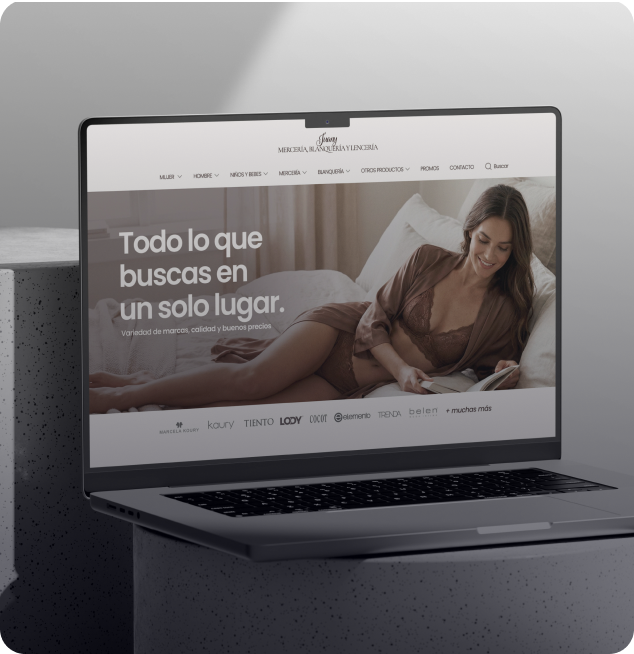
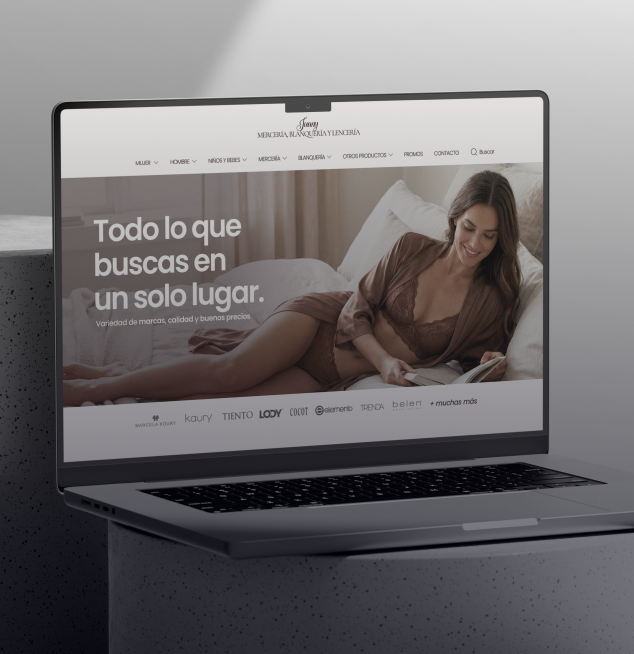
mejoras 11/3

diff --git a/App.jsx b/App.jsx
@@ -34,49 +34,26 @@ function App() {
           path="/"
           element={
             <main className="flex flex-col gap-30">
-              <header className="relative ">
-                 <CoverImage portada={portada} />
-             { /*   <div className="absolute inset-0 flex flex-col justify-center items-start z-0 pointer-events-none md: p-20">
+              <header className="relative w-full h-[60vh] md:h-[100vh]">
+              {/*  <CoverImage portada={portada} />*/} 
+                <div className=" absolute inset-0 flex flex-col justify-center items-start z-0 pointer-events-none md: p-20">
                  <span className="font-serif font-regular text-white/80 text-3xl">
-                   <i>Hola! soy Luciana,</i> 
+                   Soy Luciana,
+                  </span>          
+                  <span className="font-sans text-white/90 font-semibold text-7xl">
+                    una <i>diseñadora multimedial</i>
                   </span>
                   <span className="font-sans text-white/90  font-semibold text-7xl">
-                    product designer <i>&</i>
+                   enfocada en el desarrollo de <i>productos digitales</i> que existen para algo más que verse bien
                   </span>
-                  <span className="font-sans text-white/90 font-semibold text-7xl">
-                    diseñadora multimedial
-                  </span>
+                 
                   
-                </div>*/}
+                </div>
                 <ShaderGradientComponent />
               </header>
 
               <ParrallaxSection>
-                <section className="w-full">
-                  <TwoColumnSection
-                    titulo={
-                      <>
-                        Sobre <i>mí</i>
-                      </>
-                    }
-                  >
-                    <Paragraph>
-                      Creo interfaces, experiencias y productos digitales que existen para algo más que verse bien.
-                    </Paragraph>
-
-                    <Scroll>
-                      <StarIcon className="w-8 md:w-12" />
-                    </Scroll>
-
-                    <Paragraph variant="quote">
-                      {" "}
-                      “Aunque mi fuerte es la <i>comunicación visual</i>, mi{" "}
-                      <i>curiosidad</i> por la <i>programación</i> me permite
-                      experimentar con la interactividad y transformar diseños
-                      estáticos en experiencias dinámicas.”
-                    </Paragraph>
-                  </TwoColumnSection>
-                </section>
+               
                 <section id="proyectos">
                   <ContainerImages
                     titulo={
@@ -88,7 +65,8 @@ function App() {
                     <Scroll>
                       <CardProjects
                         imagen={fotoProyecto1}
-                        descripcion="Catálogo web diseñado y desarrollado para un comercio de mercería, blanquería y lencería."
+                        descripcion="Catálogo Web"
+                        año="2025"
                         etiqueta1="DISEÑO WEB"
                         etiqueta2="DESARROLLO FRONTEND"
                         link="/catalogo-web"
@@ -97,7 +75,8 @@ function App() {
                     <Scroll>
                       <CardProjects
                         imagen={fotoProyecto2}
-                        descripcion="Proyecto personal de serie de pósters inspirado en la Fórmula 1."
+                        descripcion="Posters Fórmula 1"
+                        año="2025"
                         etiqueta1="DISEÑO GRÁFICO"
                         link={
                           "https://www.behance.net/gallery/231453491/FORMULA-1-POSTERS-DESIGNS"
@@ -107,7 +86,8 @@ function App() {
                     <Scroll>
                       <CardProjects
                         imagen={fotoProyecto3}
-                        descripcion="Rediseño del menú gastronómico y diseño de flyers para un local de comida rápida."
+                        descripcion="Rediseño Menú Gastronómico"
+                        año="2024"
                         etiqueta1="DISEÑO GRÁFICO"
                         link={
                           "https://www.behance.net/gallery/231033797/Restaurant-Menu-Flyer-Design"
@@ -117,14 +97,27 @@ function App() {
                     <Scroll>
                       <CardProjects
                         imagen={fotoProyecto4}
-                        descripcion="Widget de escritorio que muestra información sobre las próximas carreras de Fórmula 1, incluyendo telemetría en tiempo real."
+                        descripcion="Calendario Fórmula 1"
+                        año="2026"
                         etiqueta1="DISEÑO UX/UI"
                         etiqueta2="DESARROLLO FRONTEND"
                       />
                     </Scroll>
                   </ContainerImages>
                 </section>
-              </ParrallaxSection>
+
+                <div className="flex flex-col justify-center items-center text-center w-full mt-20 pt-50 border-t border-gray-800 ">
+                  <StarIcon className="w-5 md:w-8" />
+                  <Paragraph variant="quote">
+                   ❝ Aunque mi fuerte es el <i>diseño visual</i>, mi
+                      curiosidad por la <i>programación</i> me permite
+                      experimentar con la interactividad y transformar diseños
+                      estáticos en experiencias dinámicas.❞</Paragraph>
+                       <StarIcon className="w-5 md:w-8" />
+                </div>
+             
+
+                 </ParrallaxSection>
             </main>
           }
         />

diff --git a/components/MiHeader.jsx b/components/MiHeader.jsx
@@ -1,0 +1,63 @@
+import React, { useState, useEffect } from 'react';
+import { ShaderGradientComponent } from "../components/ShaderGradientComponent";
+
+export default function MiHeader() {
+  const [isScrolled, setIsScrolled] = useState(false);
+
+  useEffect(() => {
+    const handleScroll = () => {
+      // Usamos window.innerHeight para que el cambio ocurra 
+      // cuando el usuario haya scrolleado la mitad de su pantalla
+      if (window.scrollY > window.innerHeight / 2) {
+        setIsScrolled(true);
+      } else {
+        setIsScrolled(false);
+      }
+    };
+
+    window.addEventListener('scroll', handleScroll);
+    return () => window.removeEventListener('scroll', handleScroll);
+  }, []);
+
+  return (
+   
+    <header className="relative w-full h-[200vh]">
+      
+      {/* 2. CONTENEDOR STICKY: Se pega al techo (top-0) y ocupa toda la pantalla (h-screen). 
+           Se quedará fijo hasta que el usuario termine de scrollear los 200vh de arriba. */}
+      <div className="sticky top-0 w-full h-screen overflow-hidden">
+        
+        {/* Capa de Texto */}
+        <div className="absolute inset-0 flex flex-col justify-center items-start z-10 pointer-events-none p-6 md:p-20">
+          {isScrolled ? (
+            // --- TEXTO AL SCROLLEAR ---
+            <div className="animate-fade-in flex flex-col transition-opacity duration-500">
+                 <span className="font-sans text-white/90 font-semibold text-7xl">
+               Me enfoco en crear interfaces, experiencias y productos digitales que existen para algo más que verse bien
+              </span>
+            </div>
+          ) : (
+            // --- TEXTO ORIGINAL ---
+            <div className="animate-fade-in flex flex-col transition-opacity duration-500">
+              <span className="font-serif font-regular text-white/80 text-3xl">
+                Soy Luciana,
+              </span>
+              <span className="font-sans text-white/90 font-semibold text-7xl">
+                product designer <i>&</i>
+              </span>
+              <span className="font-sans text-white/90 font-semibold text-7xl">
+                diseñadora multimedial
+              </span>
+            </div>
+          )}
+        </div>
+
+        {/* Capa de Fondo (Shader) */}
+        <div className="absolute inset-0 z-0">
+          <ShaderGradientComponent /> 
+        </div>
+
+      </div>
+    </header>
+  );
+}

diff --git a/components/CardProjects.jsx b/components/CardProjects.jsx
@@ -1,12 +1,12 @@
 import { Link } from "react-router-dom";
 
-function CardProjects({ imagen, descripcion, etiqueta1, etiqueta2, link }) {
+function CardProjects({ imagen, descripcion, año, etiqueta1, etiqueta2, link }) {
   const isExternal =
     link && (link.startsWith("http://") || link.startsWith("https://"));
 
   const cardContent = (
     <div className="flex flex-col gap-4">
-      <div className="overflow-hidden rounded-3xl">
+      <div className="overflow-hidden rounded-lg">
         <img
           src={imagen}
           alt=""
@@ -15,9 +15,13 @@ function CardProjects({ imagen, descripcion, etiqueta1, etiqueta2, link }) {
         />
       </div>
 
-      <div className="flex flex-col gap-2">
-        <p className="text-sm md:text-base text-gray-200">{descripcion}</p>
-        <div className="flex flex-wrap gap-2 mt-1">
+      <div className="flex flex-col gap-2 px-2">
+        <div className="flex flex-wrap justify-between items-center">
+          <p className="text-sm font-semibold pt-3 md:text-xl text-base uppercase">{descripcion}</p>
+          <span className="text-md text-gray-300">{año}</span>
+        </div>
+        
+        <div className="flex flex-wrap gap-2 mt-3">
           <span className="border border-white/30 px-3 py-1 text-xs rounded-full text-gray-300">
             {etiqueta1}
           </span>

diff --git a/components/Footer.jsx b/components/Footer.jsx
@@ -6,9 +6,9 @@ function Footer() {
   return (
     <footer className="w-full bg-[#00000F]">
       <SectionWrapper>
-        <div className="flex flex-col mb-20 lg:flex-row justify-between md:items-center md:mb-40 gap-10">
+        <div className="flex flex-col mb-20 lg:flex-row justify-between md:items-center md:mb-40 gap-10 pt-50 border-t border-gray-800">
           <Scroll>
-            <h2 className="text-6xl md:text-9xl font-serif leading-tighter tracking-tighter">
+            <h2 className="text-6xl md:text-8xl font-serif leading-tighter tracking-tighter">
               <span>
                 {" "}
                 <i>Trabajemos</i>
@@ -16,13 +16,13 @@ function Footer() {
               <br />
               <div className="flex gap-4">
                 <p>juntos</p>
-                <StarIcon className="w-15 md:w-30" />
+                <StarIcon className="w-15 md:w-15" />
               </div>
             </h2>
           </Scroll>
 
           <Scroll>
-            <button className="w-full px-6 py-4 text-xl border rounded-full  md:w-auto px-10 py-4 md:text-4xl">
+            <button className="w-full px-6 py-4 text-xl border rounded-xl  md:w-auto px-20 py-4 md:text-2xl">
               <a href=""> Contacto</a>
              
             </button>

diff --git a/components/Scroll.jsx b/components/Scroll.jsx
@@ -3,26 +3,27 @@ import { motion } from "framer-motion";
 const Scroll = ({ children, className = "" }) => {
   return (
     <motion.div
-      className={className} // agregar clases si es necesario
-      initial={{ opacity: 0, y: 50 }} // estado inicial: invisible y desplazado hacia abajo
+      className={className}
+      initial={{ opacity: 0, y: 40 }}
       whileInView={{
         opacity: 1,
         y: 0,
         transition: {
           y: {
             type: "spring",
-            stiffness: 100, // Qué tan fuerte tira el resorte (más alto = más rápido)
-            damping: 20, // Qué tanto aire/fricción lo frena (más alto = menos rebote, más suave)
-            mass: 1,
+            stiffness: 80,
+            damping: 18,
+            mass: 0.8,
           },
-          opacity: { duration: 0.5, ease: "easeOut" },
-          // Cuánto pesa el elemento
+          opacity: {
+            duration: 0.6,
+            ease: "easeOut",
+          },
         },
       }}
       viewport={{
         once: true,
-        amount: "some", // cuanto debe mostrarse del elemento para activar la animación
-        margin: "0px 0px -100px 0px",
+        margin: "0px 0px -80px 0px",
       }}
     >
       {children}

diff --git a/index.css b/index.css
@@ -1,10 +1,11 @@
-@import url('https://fonts.googleapis.com/css2?family=Playfair+Display:ital,wght@0,400..900;1,400..900&family=Poppins:ital,wght@0,100;0,200;0,300;0,400;0,500;0,600;0,700;0,800;0,900;1,100;1,200;1,300;1,400;1,500;1,600;1,700;1,800;1,900&display=swap');
+@import url('https://fonts.googleapis.com/css2?family=Manrope:wght@200..800&display=swap');
+@import url('https://fonts.googleapis.com/css2?family=Libre+Caslon+Text:ital,wght@0,400;0,700;1,400&display=swap');
 @import "tailwindcss";
 
 
 @theme {
-  --font-serif: "Playfair Display", serif;
-  --font-sans: "Poppins", sans-serif;
+  --font-serif: "Libre Caslon Text", serif;
+  --font-sans: "Manrope", sans-serif;
 }
 
 :root {
@@ -31,8 +32,8 @@ body {
   min-height: 100vh;
 }
 
-h2 {
-  font-weight: 500;
+h2  {
+  font-weight: 600;
 }
 
 h3 {
@@ -40,7 +41,7 @@ h3 {
 }
 
 p {
-  font-family: Poppins;
+  font-family: Manrope, sans-serif;
 }
 
 

diff --git a/components/MenuWeb.jsx b/components/MenuWeb.jsx
@@ -61,7 +61,7 @@ function MenuWeb() {
       // 4. Clases dinámicas en el nav
       // Agregamos 'transition-all duration-300' para que el cambio sea suave
       className={`
-        fixed top-0 left-0 w-full px-10 md:pt-5 md:pb-5 md:px-20 z-50 flex justify-end 
+        fixed top-0 left-0 w-full px-10 md:pt-5 md:pb-5 md:px-20 z-50 flex items-center justify-between
         transition-all duration-500 ease-in-out
         ${
           isScrolled
@@ -70,6 +70,12 @@ function MenuWeb() {
         }
       `}
     >
+       <a   href="/"
+        onClick={(e) => handleNavigation(e, "/")}
+        className="text-white text-xs tracking-widest font-medium uppercase"
+      >
+        LT
+      </a>
       {/*menu hamburguesa */}
       <button
         onClick={() => setIsOpen(!isOpen)}

diff --git a/components/Paragraph.jsx b/components/Paragraph.jsx
@@ -2,11 +2,11 @@ import Scroll from "../components/Scroll";
 
 function Paragraph({ subtitulo, children, variant = "normal" }) {
 
-  const baseStyle = "py-5 font-sans leading-relaxed max-w-2xl flex flex-col gap-2 md:py-3 md:gap-3";
+  const baseStyle = "py-5 font-sans leading-loose max-w-5xl flex flex-col gap-2 md:py-3 md:gap-3";
 
   const styles = {
-    normal: "font-regular text-base md:text-lg text-gray-200", 
-    quote: "text-xl md:text-3xl font-medium", 
+    normal: "font-semibold text-base md:text-xl text-gray-200", 
+    quote: "font-semibold text-xl md:text-5xl", 
   };
   return (
     <Scroll>

diff --git a/components/ContainerImages.jsx b/components/ContainerImages.jsx
@@ -16,7 +16,7 @@ function ContainerImages({
   return (
     <div>
       <SectionWrapper>
-        <div className="grid grid-cols-1 md:grid-cols-2 lg:grid-cols-3 gap-x-4 gap-y-12 items-start">
+        <div className="grid grid-cols-1 md:grid-cols-2 lg:grid-cols-3 gap-x-3 gap-y-15 items-start">
           <Scroll>
             <div className="md:grid-rows-1">
               <SectionTitle>{titulo}</SectionTitle>

diff --git a/components/StarIcon.jsx b/components/StarIcon.jsx
@@ -1,8 +1,8 @@
-import starImg from '../assets/estrella.png'; 
+import starImg from '../assets/Recurso 2 copia.png'; 
 
 function StarIcon({ className = "", size = "w-6" }) {
   return (
-    <div className="flex flex-col items-center py-15 md:py-15">
+    <div className="flex flex-col items-center py-15 md:py-10">
       <img 
       src={starImg} 
       alt="Estrella decorativa"

diff --git a/components/SectionTitle.jsx b/components/SectionTitle.jsx
@@ -5,7 +5,7 @@ function SectionTitle({ children, subtitulo, className = "" }) {
   return (
     <div className="w-fit">
       <Scroll>
-      <h2 className={`font-sans font-medium text-4xl md:text-6xl leading-none ${className}`}>
+      <h2 className={`text-4xl md:text-5xl leading-none ${className}`}>
       {children}
     </h2>
       </Scroll>

diff --git a/components/SectionWrapper.jsx b/components/SectionWrapper.jsx
@@ -3,7 +3,7 @@ function SectionWrapper({ children, className = "", id = "" }) {
   return (
     <section 
       id={id}
-      className={`w-full py-10 px-8 md:py-20 md:px-20 ${className}`}
+      className={`w-full py-10 px-8 md:py-40 md:px-20 ${className}`}
     >
       {children}
     </section>
